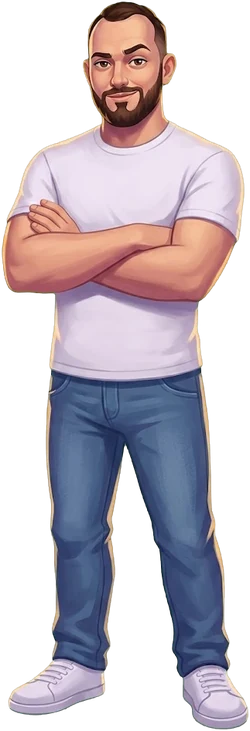
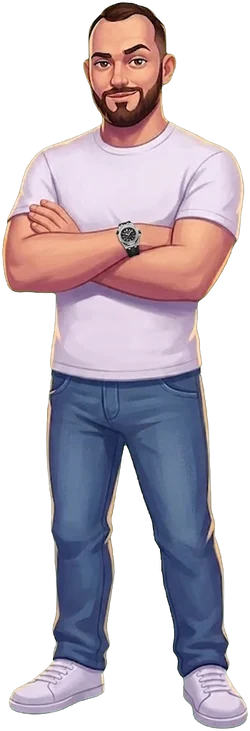
Her watch and bangles, his AP, and a finger you drag
Every sprite of hers now wears the black smart watch with the crystal
bezel and a gold bangle on that wrist, a gold bangle on the other; every
sprite of his wears a silver-cased AP on his left. The sheets were edited
in place and dropped back at their exact old size, then the run cycle was
re-registered cell by cell — one frame had drifted 18px and she jogged
sideways once a cycle.

Steering the fall is a drag now, not a side to point at: hold a finger
anywhere and slide it, she swings under it and stays where you leave her.

And he stops being coy through the crack: "Lol you really thought id make
something lame?" — long enough that it wraps, so it wraps.

Claude-Session: https://claude.ai/code/session_018UCuTSNG2odHLTXjxQTbnU

diff --git a/index.html b/index.html
@@ -550,7 +550,7 @@ const CONFIG = {
   },
 
   /* ---- the lines he says when he kicks the card in ---- */
-  BREAK_LINES: [ "…yeah, no.", "not for you." ],
+  BREAK_LINES: [ "Lol you really thought id make something lame?" ],
 
   /* ---- the way in. Get it right and the whole place comes on. ---- */
   ASK_TITLE:  "prove it's you.",
@@ -646,7 +646,7 @@ const CONFIG = {
      She loves this sort of thing, so the game becomes it for a minute. */
   DIVE: {
     intro:   ["no floor.", "…okay then."],
-    hint:    "hold a side to steer",
+    hint:    "hold your finger down and slide",
     pull:    "PULL",
     pulled:  "¡Buen viaje!",
     after:   "You didn't hesitate. Not even slightly.",
@@ -899,7 +899,7 @@ let lit = 0;                           /* candles alight in the last scene */
 
 /* ---------------------------------------------------------- the fall */
 const dive = {
-  on:false, t:0, x:0, vx:0, roll:0, chute:0, pulled:false, steer:0,
+  on:false, t:0, x:0, tx:0, vx:0, roll:0, chute:0, pulled:false,
   hazards:[], streaks:[], fields:[], stars:null, next:0, hit:0, done:false,
   vpx:0, vpy:0, hair:0
 };
@@ -1004,8 +1004,7 @@ function breakIt(){
   setTimeout(() => { sfx.shatter(); shake = 20; }, 300);
   setTimeout(() => { $('card').classList.add('gone'); sfx.thud(); shake = 26; buzz(120); }, 520);
   setTimeout(() => { $('card').style.display = 'none'; breakLine = 0; cracks = []; }, 950);
-  setTimeout(() => { breakLine = 1; }, 2050);
-  setTimeout(askColour, 3100);
+  setTimeout(askColour, 4300);          // it is a longer line than it was
 }
 
 /* ================================================================= the gate
@@ -1932,7 +1931,7 @@ function draw(){
     ctx.font = "italic 600 " + Math.round(24 * SC) + "px 'Fraunces',Georgia,serif";
     ctx.textAlign = 'center'; ctx.textBaseline = 'middle';
     ctx.shadowColor = 'rgba(0,0,0,.8)'; ctx.shadowBlur = 22;
-    ctx.fillText(CONFIG.BREAK_LINES[breakLine], W / 2, H * 0.30);
+    wrapped(CONFIG.BREAK_LINES[breakLine], W / 2, H * 0.30, W * 0.84, 32 * SC);
     ctx.shadowBlur = 0;
   }
   ctx.restore();
@@ -2232,9 +2231,9 @@ function openDoors(){
 function startDive(){
   state = S.DIVE;
   dive.on = true; dive.t = 0; dive.chute = 0; dive.pulled = false; dive.done = false;
-  dive.x = W / 2; dive.vx = 0; dive.roll = 0; dive.hit = 0; dive.steer = 0;
+  dive.x = dive.tx = W / 2; dive.vx = 0; dive.roll = 0; dive.hit = 0;
   dive.hazards = []; dive.streaks = []; dive.fields = []; dive.next = 0.9;
-  dive.hair = 0; held.clear(); keyHeld.clear();
+  dive.hair = 0; drag = null; keyHeld.clear();
   seedSky();
   sfx.whoosh(); buzz([20, 60, 20]);
   toast(CONFIG.DIVE.intro[0], 1300);
@@ -2245,46 +2244,37 @@ function startDive(){
 }
 
 /* -------------------------------------------------------------- steering
-   A thumb held on the left half pushes her left, the right half right,
-   and letting go lets the air straighten her out. Holding both sides at
-   once cancels — she just falls. The ripcord is a button of its own,
-   because the whole screen is now a control.                           */
-const held = new Map();                 // pointerId -> -1 | 1
+   Put a finger down anywhere and slide it: she goes where you drag her,
+   and she stays put when you stop. Lift off and she just falls. The
+   ripcord is a button of its own, because the screen is a control.     */
+const DRAG_GAIN = 1.35;
+let drag = null;                        // { id, lastX }
 const keyHeld = new Set();
-function recalcSteer(){
-  let d = 0;
-  for (const v of held.values()) d += v;
-  if (keyHeld.has('L')) d -= 1;
-  if (keyHeld.has('R')) d += 1;
-  dive.steer = Math.max(-1, Math.min(1, d));
-}
-function sideOf(x){ return x < W / 2 ? -1 : 1; }
 cv.addEventListener('pointerdown', e => {
   if (state !== S.DIVE) return;
-  /* no pointer capture here: it would retarget every later event at the
-     canvas and swallow the tap on PULL. window catches the release. */
-  held.set(e.pointerId, sideOf(e.clientX));
-  recalcSteer();
+  drag = { id: e.pointerId, lastX: e.clientX };
 }, { passive:true });
 cv.addEventListener('pointermove', e => {
-  if (state !== S.DIVE || !held.has(e.pointerId)) return;
-  held.set(e.pointerId, sideOf(e.clientX));      // slide across the middle to flip
-  recalcSteer();
+  if (state !== S.DIVE || !drag || drag.id !== e.pointerId) return;
+  diveBy((e.clientX - drag.lastX) * DRAG_GAIN);
+  drag.lastX = e.clientX;
 }, { passive:true });
-function letGo(e){ if (held.delete(e.pointerId)) recalcSteer(); }
+function letGo(e){ if (drag && drag.id === e.pointerId) drag = null; }
 window.addEventListener('pointerup', letGo, { passive:true });
 window.addEventListener('pointercancel', letGo, { passive:true });
+function diveBy(dx){
+  const edge = 104 * SC;          // her arm span, not her hips
+  dive.tx = Math.max(edge, Math.min(W - edge, dive.tx + dx));
+}
 window.addEventListener('keydown', e => {
   if (state !== S.DIVE) return;
   if (e.code === 'ArrowLeft'  || e.code === 'KeyA') keyHeld.add('L');
   if (e.code === 'ArrowRight' || e.code === 'KeyD') keyHeld.add('R');
   if (e.code === 'Enter' && dive.t / CONFIG.DIVE.seconds >= CONFIG.DIVE.pullAt) pullChute();
-  recalcSteer();
 });
 window.addEventListener('keyup', e => {
   if (e.code === 'ArrowLeft'  || e.code === 'KeyA') keyHeld.delete('L');
   if (e.code === 'ArrowRight' || e.code === 'KeyD') keyHeld.delete('R');
-  recalcSteer();
 });
 $('divePull').addEventListener('click', () => { ac(); pullChute(); });
 
@@ -2325,22 +2315,22 @@ function proj(ox, oy, z){
   return [dive.vpx + ox * sc, dive.vpy + oy * sc, sc];
 }
 
-const ACC = 1600, MAXV = 640, DRAG = 3.4;
+const MAXV = 640, KEY_V = 620;
 function updateDive(dt){
   const D = CONFIG.DIVE;
   dive.t += dt;
   const k = Math.min(1, dive.t / D.seconds);
   dive.hair += dt;
 
-  /* she leans into the hold, and the air pushes back when she lets go */
-  dive.vx += dive.steer * ACC * SC * dt;
-  dive.vx -= dive.vx * DRAG * (dive.steer ? 0.3 : 1) * dt;
-  dive.vx = Math.max(-MAXV * SC, Math.min(MAXV * SC, dive.vx));
-  dive.x += dive.vx * dt;
-  const edge = 88 * SC;
-  if (dive.x < edge){ dive.x = edge; dive.vx *= -0.25; }
-  if (dive.x > W - edge){ dive.x = W - edge; dive.vx *= -0.25; }
-  dive.roll += ((dive.vx / (MAXV * SC)) * 0.30 - dive.roll) * Math.min(1, dt * 7);
+  /* the keys push the same target the finger drags */
+  if (keyHeld.size) diveBy((keyHeld.has('R') - keyHeld.has('L')) * KEY_V * SC * dt);
+
+  /* she does not snap to the finger, she swings under it */
+  const nx = dive.x + (dive.tx - dive.x) * Math.min(1, dt * 9);
+  const v  = (nx - dive.x) / Math.max(dt, 0.0001);
+  dive.x = nx;
+  dive.vx += (v - dive.vx) * Math.min(1, dt * 10);
+  dive.roll += ((dive.vx / (MAXV * SC)) * 0.34 - dive.roll) * Math.min(1, dt * 7);
   if (dive.hit > 0) dive.hit -= dt;
 
   /* the camera hangs behind her, so the world slides the other way */
@@ -2525,12 +2515,13 @@ function drawSteerHint(){
   const y = H * 0.74;
   ctx.strokeStyle = '#fff';
   ctx.lineWidth = 3 * SC; ctx.lineCap = 'round'; ctx.lineJoin = 'round';
+  const lean = Math.max(-1, Math.min(1, dive.vx / (MAXV * SC * 0.55)));
   for (const dir of [-1, 1]){
-    const on = dive.steer === dir;
+    const on = lean * dir > 0.08 ? Math.min(1, Math.abs(lean)) : 0;
     const x = dir < 0 ? 40 * SC : W - 40 * SC;
-    ctx.globalAlpha = on ? 0.85 : 0.20;
+    ctx.globalAlpha = 0.18 + on * 0.7;
     for (let i = 0; i < 2; i++){
-      const o = (i * 13 + (on ? 3 : 0)) * SC * dir;   // and they nudge over when held
+      const o = (i * 13 + on * 4) * SC * dir;         // and they slide with her
       ctx.beginPath();
       ctx.moveTo(x - 8 * SC * dir + o, y - 13 * SC);
       ctx.lineTo(x + 8 * SC * dir + o, y);
@@ -2541,6 +2532,21 @@ function drawSteerHint(){
   ctx.globalAlpha = 1;
   ctx.lineCap = 'butt';
 }
+/* centred text that breaks itself over as many lines as it needs */
+function wrapped(text, cx, cy, maxW, lh){
+  const words = text.split(' ');
+  const lines = [];
+  let line = '';
+  for (const w of words){
+    const t = line ? line + ' ' + w : w;
+    if (line && ctx.measureText(t).width > maxW){ lines.push(line); line = w; }
+    else line = t;
+  }
+  if (line) lines.push(line);
+  const top = cy - (lines.length - 1) * lh / 2;
+  lines.forEach((l, i) => ctx.fillText(l, cx, top + i * lh));
+}
+
 function mixc(a, b, k){
   return 'rgb(' + Math.round(a[0]+(b[0]-a[0])*k) + ',' +
                   Math.round(a[1]+(b[1]-a[1])*k) + ',' +
